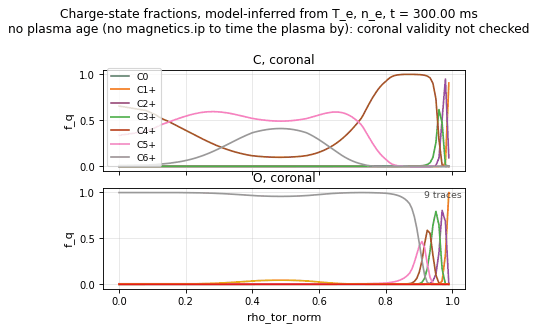
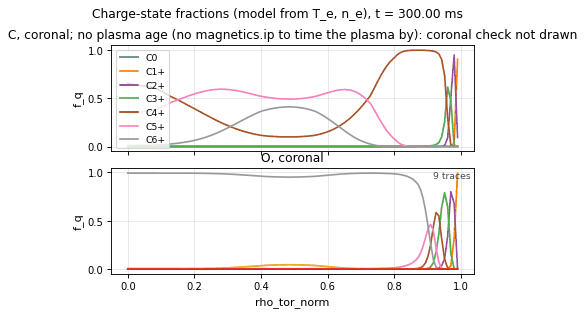
Composition view: one-line suptitle, thinned not-coronal markers
On a Thomson grid (~100 points) a cross on every young point buried the curve,
and the renderer anchors a suptitle above the top axes, so a multi-line one
grew off the canvas (39915 @ 315 ms). The details move into the panel titles;
the markers are thinned to 25 per curve, keeping each run's ends, and their
legend states the plasma age.

Changed region(s): [[0.0, 0.0286, 1.0, 1.0], [0.6853, 0.2571, 0.7151, 0.3143], [0.3575, 0.2571, 0.3873, 0.2857]]

diff --git a/vaft/plot/backend/recipes.py b/vaft/plot/backend/recipes.py
@@ -6041,19 +6041,33 @@ def _impurity_available(ods: Any) -> str | None:
 
 def _age_text(inputs: Mapping[str, Any]) -> str:
     if inputs["age"] is None:
-        return f"no plasma age ({inputs['age_source']}): coronal validity not checked"
+        return f"no plasma age ({inputs['age_source']}): coronal check not drawn"
     return f"plasma age {inputs['age'] * 1e3:.1f} ms ({inputs['age_source']})"
 
 
+#: At most this many markers per curve flag the points that are not coronal:
+#: a Thomson-fitted grid has ~100 points, and a cross on each buries the curve.
+_NOT_CORONAL_MARKERS = 25
+
+
 def _not_coronal(rho: np.ndarray, y: np.ndarray, result: Any, label: str) -> list[Series]:
-    """Markers on the points whose plasma is too young for the coronal charge states."""
+    """Markers on the points whose plasma is too young for the coronal charge states.
+
+    Every such point is flagged, thinned evenly to :data:`_NOT_CORONAL_MARKERS`
+    so the curve stays readable; the first and last of each run are kept so
+    the flagged span is not shortened.
+    """
     if result.coronal_valid is None:
         return []
     bad = ~np.asarray(result.coronal_valid, dtype=bool) & np.isfinite(y)
     if not bad.any():
         return []
-    return [Series(x=rho[bad], y=y[bad], label=label,
-                   style={"marker": "x", "linestyle": "none", "color": "emphasis:alert"})]
+    where = np.flatnonzero(bad)
+    stride = max(1, int(np.ceil(where.size / _NOT_CORONAL_MARKERS)))
+    edges = where[np.r_[True, np.diff(where) > 1] | np.r_[np.diff(where) > 1, True]]
+    keep = np.union1d(where[::stride], edges)
+    return [Series(x=rho[keep], y=y[keep], label=label,
+                   style={"marker": "x", "markersize": 4, "linestyle": "none", "color": "emphasis:alert"})]
 
 
 def _build_impurity_composition(ods: Any, **options: Any) -> Panels:
@@ -6097,9 +6111,12 @@ def _build_impurity_composition(ods: Any, **options: Any) -> Panels:
         label, style = _ZEFF_ORIGIN_LABELS[stored[2]]
         zeff_traces.append(Series(x=stored[0], y=stored[1], label=f"stored ({label})",
                                   style={**style, "linestyle": ":"}))
-    zeff_traces += _not_coronal(rho, primary.zeff, primary, "not coronal")
+    young = "" if inputs["age"] is None else f"not coronal at {inputs['age'] * 1e3:.1f} ms"
+    zeff_traces += _not_coronal(rho, primary.zeff, primary, young)
     zeff_panel = Profile1D(series=tuple(zeff_traces), coordinate_label="rho_tor_norm",
-                           y_label="Z_eff", y_unit="")
+                           y_label="Z_eff", y_unit="",
+                           title=f"{ionization} charge states; {rule(asked[0])}: "
+                                 f"n_s/n_e = {primary.scale:.3g} w_s")
 
     moments: list[Series] = []
     for k, element in enumerate(primary.elements):
@@ -6112,9 +6129,9 @@ def _build_impurity_composition(ods: Any, **options: Any) -> Panels:
                                   label=f"<Z>_{element} coronal", style={"color": colour, "linestyle": "--"}))
         moments.append(Series(x=rho, y=np.full(rho.size, float(z_n)), label=f"{element}{z_n}+ fully stripped",
                               style={"color": colour, "linestyle": ":", "lw": 1.0}))
-        moments += _not_coronal(rho, primary.mean_charge[:, k], primary, "not coronal" if k == 0 else "")
+        moments += _not_coronal(rho, primary.mean_charge[:, k], primary, young if k == 0 else "")
     moment_panel = Profile1D(series=tuple(moments), coordinate_label="rho_tor_norm",
-                             y_label="<Z>", y_unit="")
+                             y_label="<Z>", y_unit="", title=_age_text(inputs))
 
     reduced = Profile1D(
         series=(Series(x=rho, y=primary.effective_charge, label="Z_I,eff = S2/S1",
@@ -6130,10 +6147,11 @@ def _build_impurity_composition(ods: Any, **options: Any) -> Panels:
                                y_label="n / n_e", y_unit="")
     return Panels(
         models=(zeff_panel, moment_panel, reduced, fraction_panel), ncols=1, share_x=True,
-        suptitle=(f"Impurity composition, model-inferred, {_slice_title_time(inputs['time'])}\n"
-                  f"{inputs['composition']}; {ionization} charge states; {rule(asked[0])}: "
-                  f"n_s/n_e = {primary.scale:.3g} w_s\n{_age_text(inputs)}"
-                  + ("; x marks points not yet coronal" if primary.coronal_valid is not None else "")),
+        # One line: the renderer anchors a suptitle above the top axes and a
+        # second line would grow off the canvas; the details sit in the
+        # panel titles, which the layout makes room for.
+        suptitle=(f"Impurity composition (model): {inputs['composition']}, "
+                  f"{_slice_title_time(inputs['time'])}"),
     )
 
 
@@ -6158,11 +6176,11 @@ def _build_impurity_charge_states(ods: Any, **options: Any) -> Panels:
         )
         panels.append(Profile1D(series=traces, coordinate_label="rho_tor_norm",
                                 y_label="f_q", y_unit="",
-                                title=f"{element}, {inputs['ionization']}"))
+                                title=f"{element}, {inputs['ionization']}"
+                                      + ("" if k else f"; {_age_text(inputs)}")))
     return Panels(
         models=tuple(panels), ncols=1, share_x=True, share_y=True,
-        suptitle=(f"Charge-state fractions, model-inferred from T_e, n_e, "
-                  f"{_slice_title_time(inputs['time'])}\n{_age_text(inputs)}"),
+        suptitle=f"Charge-state fractions (model from T_e, n_e), {_slice_title_time(inputs['time'])}",
     )
 
 

diff --git a/test/test_impurity_plots.py b/test/test_impurity_plots.py
@@ -123,7 +123,7 @@ def test_the_composition_is_the_process_layer_result_on_the_slice_named_by_time(
     np.testing.assert_allclose(moments.series[0].y, expected.mean_charge[:, 0])
     np.testing.assert_allclose(reduced.series[0].y, expected.effective_charge)
     np.testing.assert_allclose(fractions.series[0].y, expected.dilution_fraction)
-    assert "model-inferred" in model.suptitle and "VEST preset" in model.suptitle
+    assert "(model)" in model.suptitle and "VEST preset" in model.suptitle
     assert "310.00 ms" in model.suptitle
     labels = [s.label for s in zeff.series]
     assert labels[:2] == ["<Z_eff>_ne = 2", "fully stripped at Z_eff = 2"]
@@ -132,17 +132,17 @@ def test_the_composition_is_the_process_layer_result_on_the_slice_named_by_time(
 
 def test_points_too_young_for_coronal_charge_states_are_marked():
     young = _extract("impurity_profile_composition", _ods(), plasma_age_s=1e-7)
-    marks = [s for s in young.models[0].series if s.label == "not coronal"]
+    marks = [s for s in young.models[0].series if s.label.startswith("not coronal at")]
     assert marks and marks[0].style["marker"] == "x"
-    assert "not yet coronal" in young.suptitle
+    assert marks[0].x[0] == RHO[0] and marks[0].x[-1] == RHO[-1]   # the whole young span
     old = _extract("impurity_profile_composition", _ods(), plasma_age_s=10.0)
-    assert not [s for s in old.models[0].series if s.label == "not coronal"]
+    assert not [s for s in old.models[0].series if s.label.startswith("not coronal")]
 
 
 def test_without_a_plasma_age_the_coronal_check_is_not_drawn_and_transient_is_refused():
     model = _extract("impurity_profile_composition", _ods())
-    assert "coronal validity not checked" in model.suptitle
-    assert not [s for s in model.models[0].series if s.label == "not coronal"]
+    assert "coronal check not drawn" in model.models[1].title
+    assert not [s for s in model.models[0].series if s.label.startswith("not coronal")]
     with pytest.raises(ValueError, match="plasma_age_s"):
         _extract("impurity_profile_composition", _ods(), ionization="transient")
 
@@ -151,7 +151,7 @@ def test_transient_ionization_draws_the_coronal_reference_beside_the_mean_charge
     model = _extract("impurity_profile_composition", _ods(), ionization="transient", plasma_age_s=1e-3)
     labels = [s.label for s in model.models[1].series]
     assert "<Z>_C coronal" in labels and "<Z>_O coronal" in labels
-    assert "transient charge states" in model.suptitle
+    assert model.models[0].title.startswith("transient charge states")
 
 
 def test_a_stored_zeff_is_overlaid_under_its_own_origin():
@@ -171,6 +171,7 @@ def test_a_caller_composition_and_target_are_used_and_stated():
                      target_zeff=1.5, normalizations=("axis",))
     assert model.models[0].series[0].y[0] == pytest.approx(1.5)
     assert "C:O = 2:1 (caller)" in model.suptitle
+    assert "Z_eff(0) = 1.5" in model.models[0].title
 
 
 def test_the_composition_does_not_write_into_the_ods():
@@ -183,7 +184,8 @@ def test_the_composition_does_not_write_into_the_ods():
 
 def test_charge_state_fractions_sum_to_one_per_element():
     model = _extract("impurity_profile_charge_state_fraction", _ods())
-    assert [panel.title for panel in model.models] == ["C, coronal", "O, coronal"]
+    assert model.models[0].title.startswith("C, coronal; no plasma age")
+    assert model.models[1].title == "O, coronal"
     for panel, z_n in zip(model.models, (6, 8)):
         assert len(panel.series) == z_n + 1
         np.testing.assert_allclose(np.sum([s.y for s in panel.series], axis=0), 1.0, atol=1e-9)
@@ -206,4 +208,4 @@ def test_the_plasma_age_defaults_to_the_onset_the_diagnostics_give():
         onset = plasma_timing(ods).onset
     model = _extract("impurity_profile_composition", ods)
     t = float(ods["core_profiles.profiles_1d.0.time"])
-    assert f"plasma age {(t - onset) * 1e3:.1f} ms" in model.suptitle
+    assert model.models[1].title.startswith(f"plasma age {(t - onset) * 1e3:.1f} ms")
